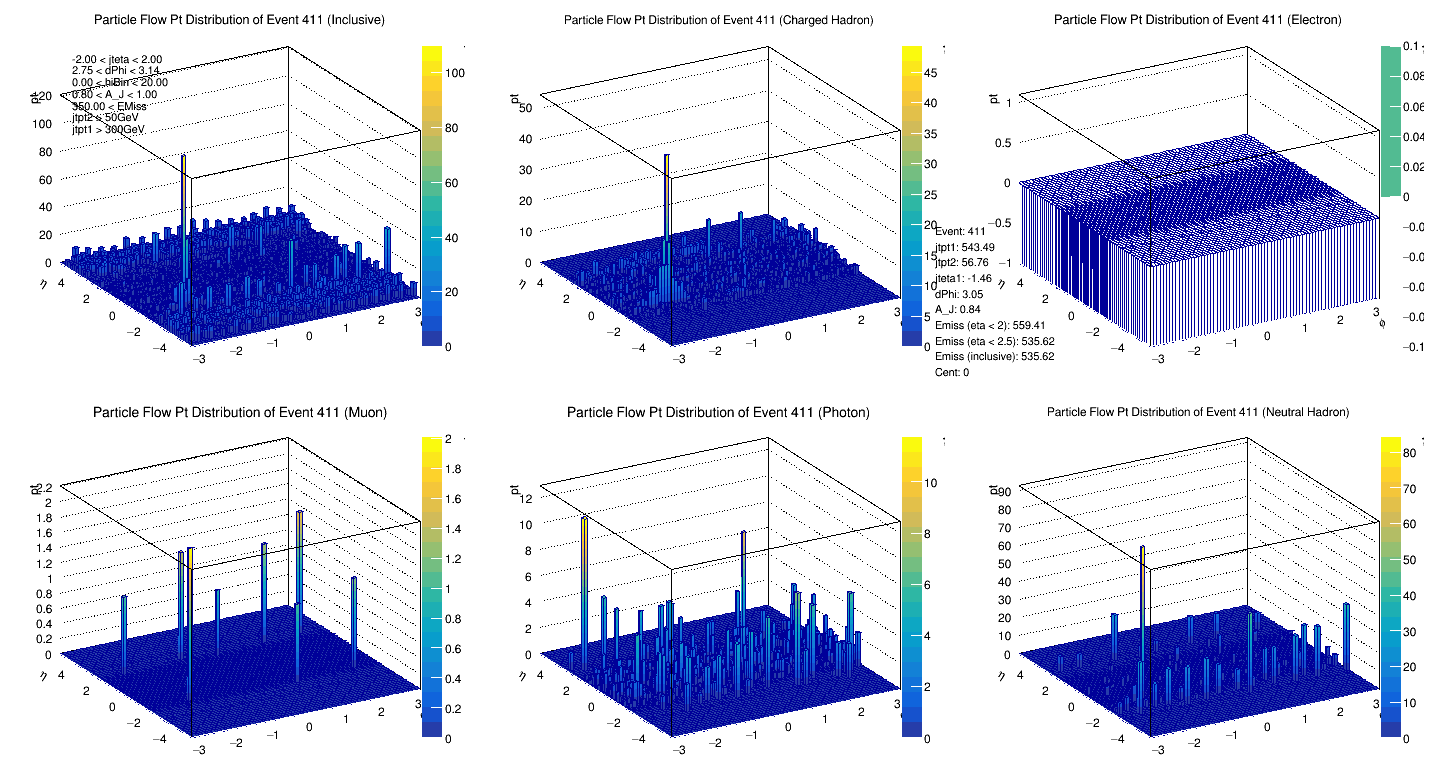
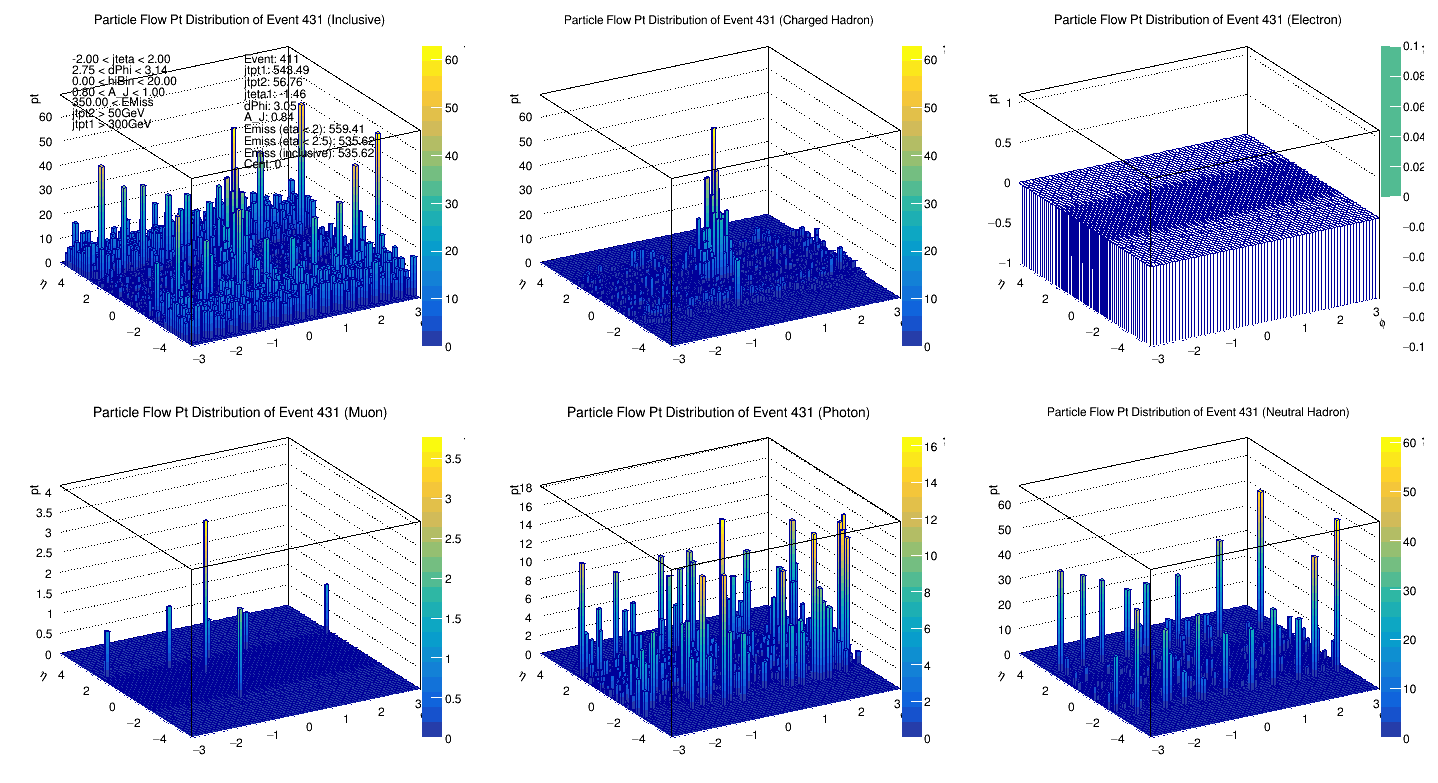
5.19.25 Draw2D code with pfid selection

diff --git a/UpdatedCodes/main.cpp b/UpdatedCodes/main.cpp
@@ -103,7 +103,7 @@ void run(const char* inputFileName) {
         for (int i = 0; i < 6; i++) {
             cout << "Processing Plot: " << i << endl;
             c1->cd(i+1);
-            TH2D* histogramTest = draw2DNew(inputFileName,eventInfo[0].event,i);
+            TH2D* histogramTest = draw2DNew(inputFileName,eventInfo[EventNum].event,i);
                 histogramTest->Draw("LEGO2 Z");
             }
             
